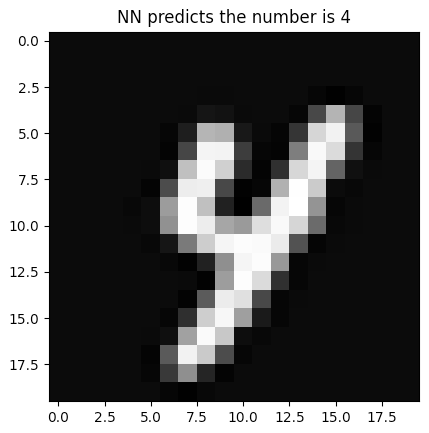
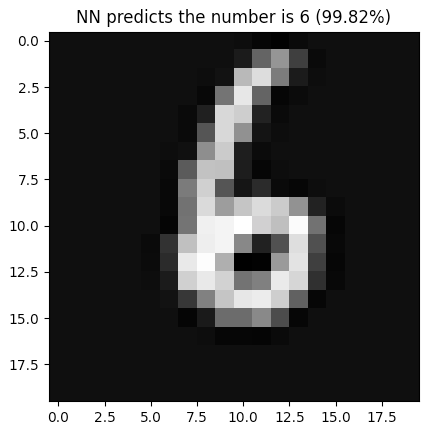
Updated image to show percentage as well

Changed region(s): [[0.3636, 0.0901, 0.8485, 0.9007], [0.1818, 0.0, 0.9091, 0.06]]

diff --git a/numpy_approach.py b/numpy_approach.py
@@ -231,8 +231,8 @@ def main(X, y, Y, hyperparameters):
 	plt.show()
 
 	# Print examples until user input
-	s = ''
-	while s != 'q':
+	user_continue = ''
+	while user_continue != 'q':
 
 		random_idx = rp[i]
 
@@ -241,12 +241,13 @@ def main(X, y, Y, hyperparameters):
 
 		# Show the random input as a grayscale image 
 		plt.imshow(x.reshape(20, 20).T, cmap='gray')
-		plt.title(f'NN predicts the number is { int( p[random_idx] ) }')
+		plt.title('NN predicts the number is {:.0f} ({:.2f}%)'.
+			format(p[random_idx], 100*h[random_idx, int(p[random_idx])]))
 		plt.draw()
 		plt.pause(0.001)
 
 		# Stop when user types "q"
-		s = input('Pause - Enter to continue, q to quit:')
+		user_continue = input('Pause - Enter to continue, q to quit:')
 
 		i += 1
 
